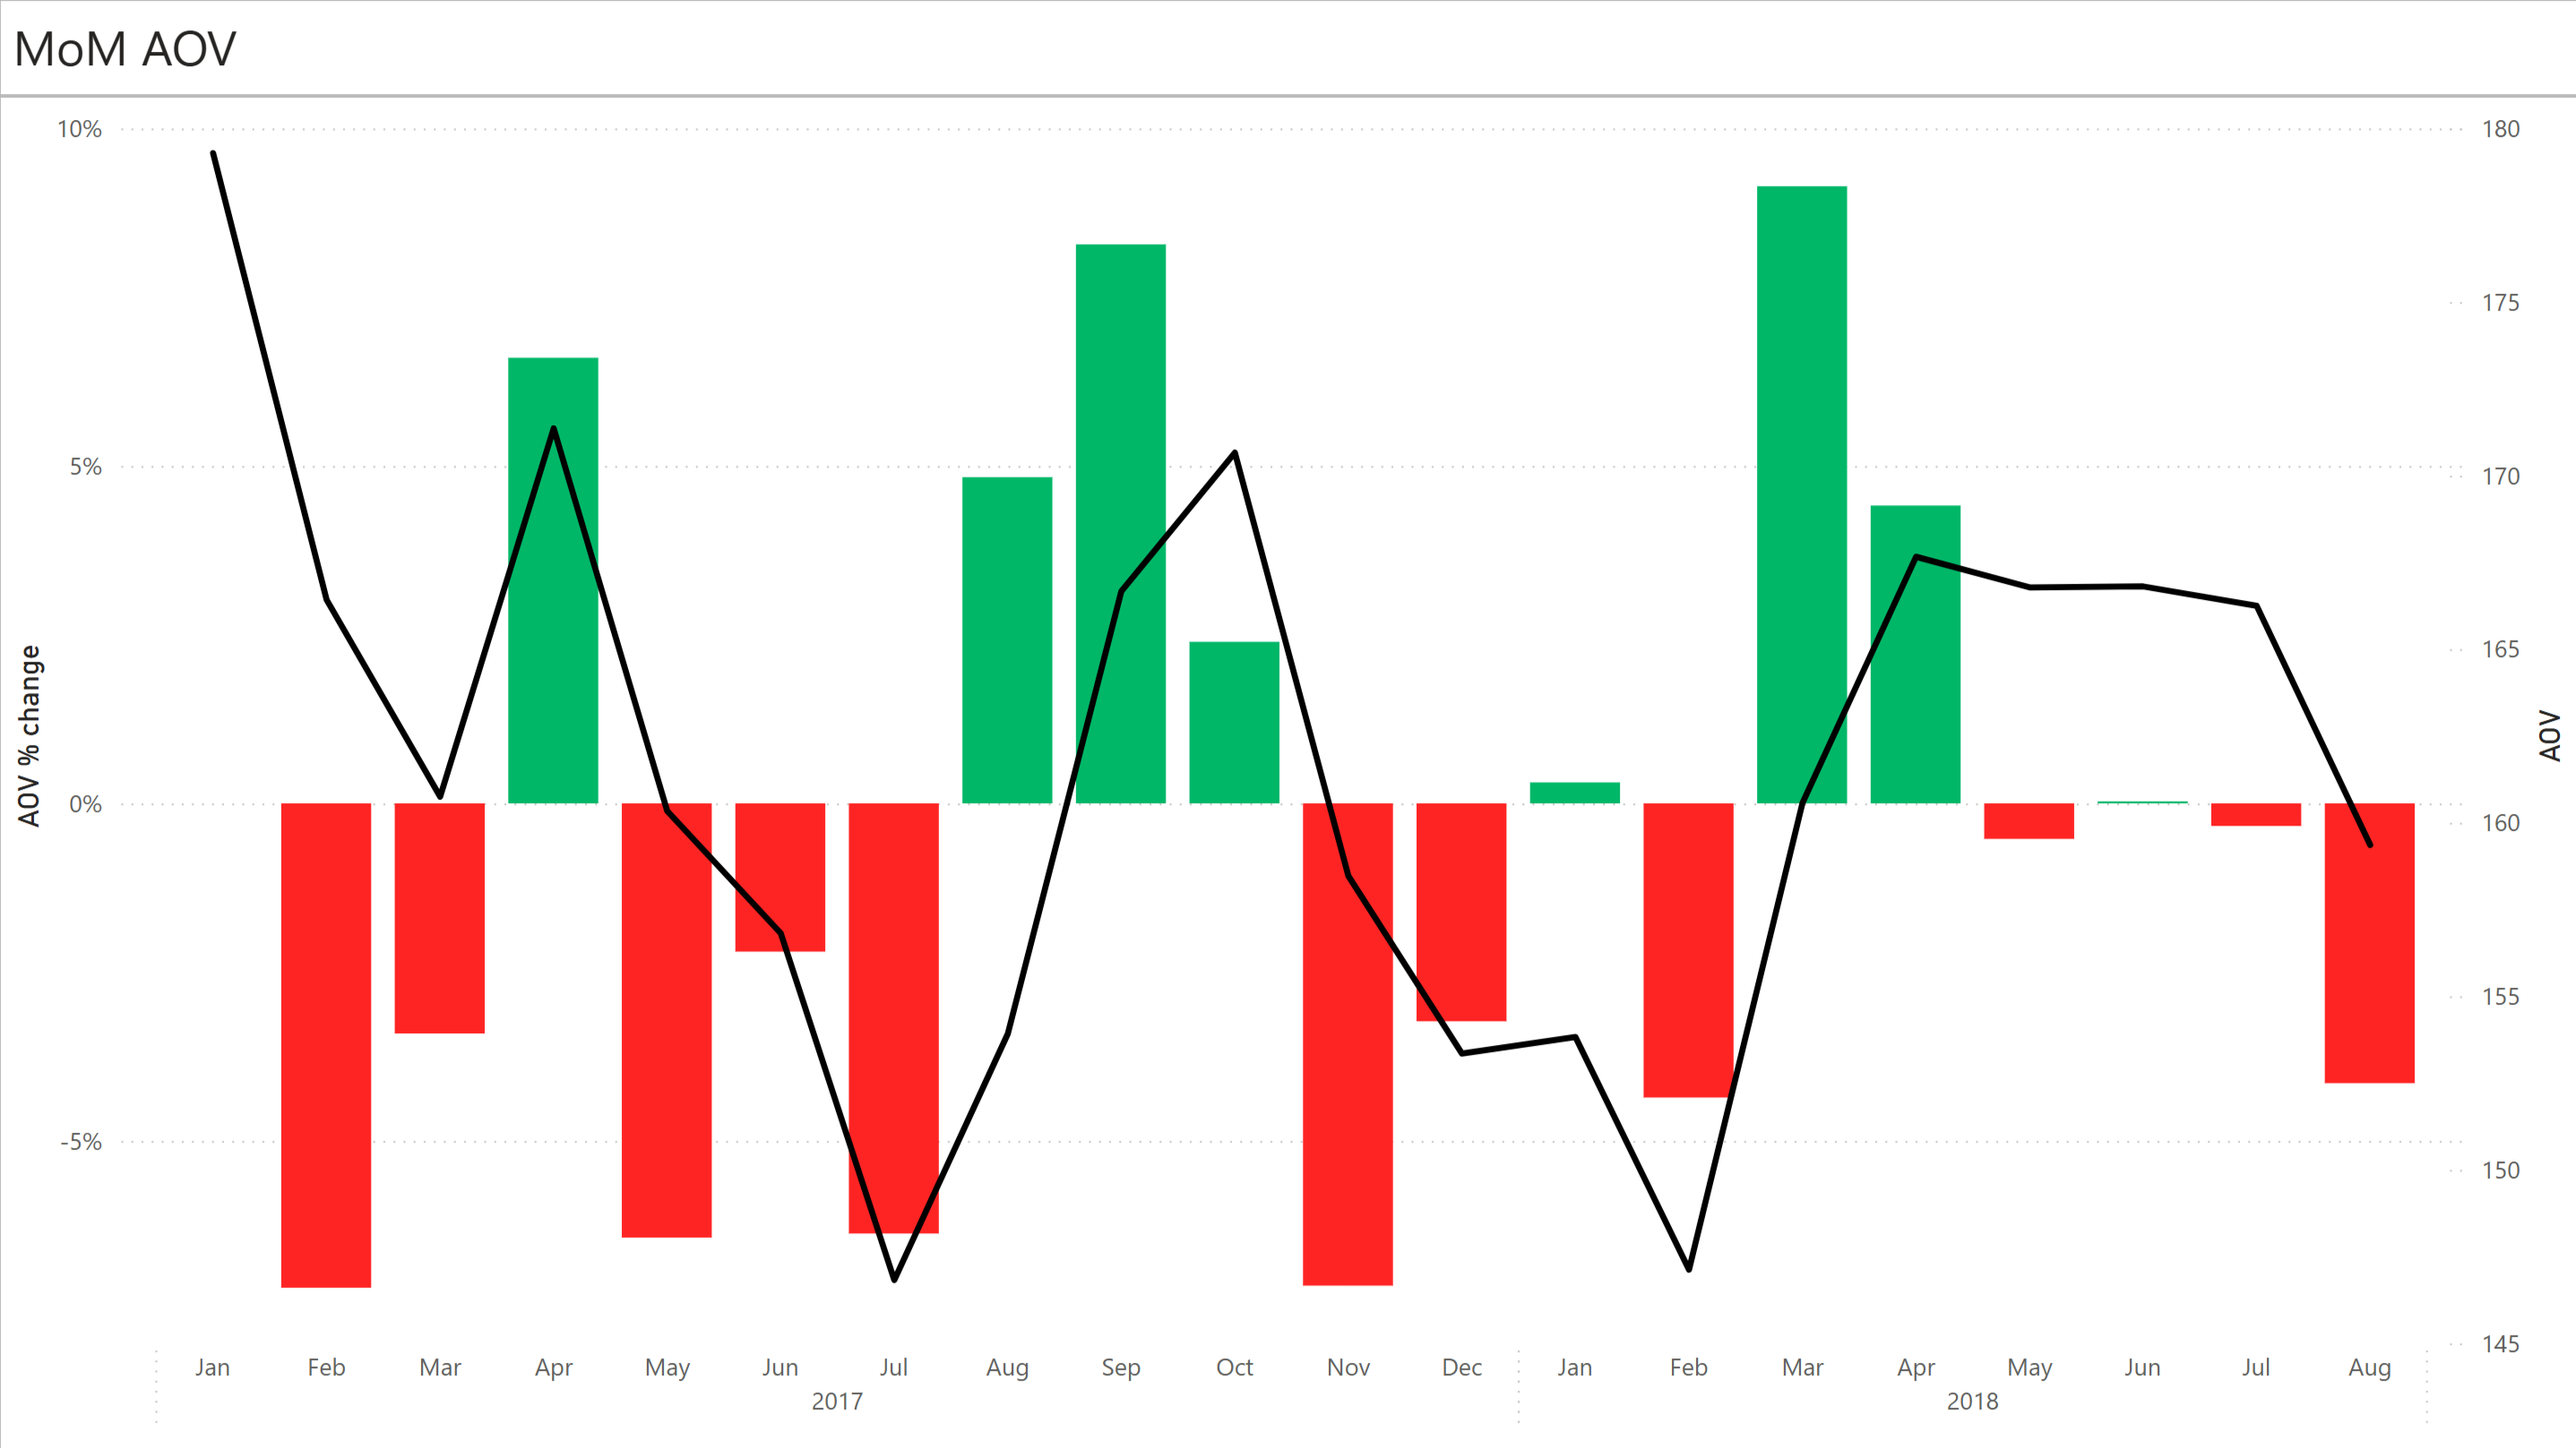
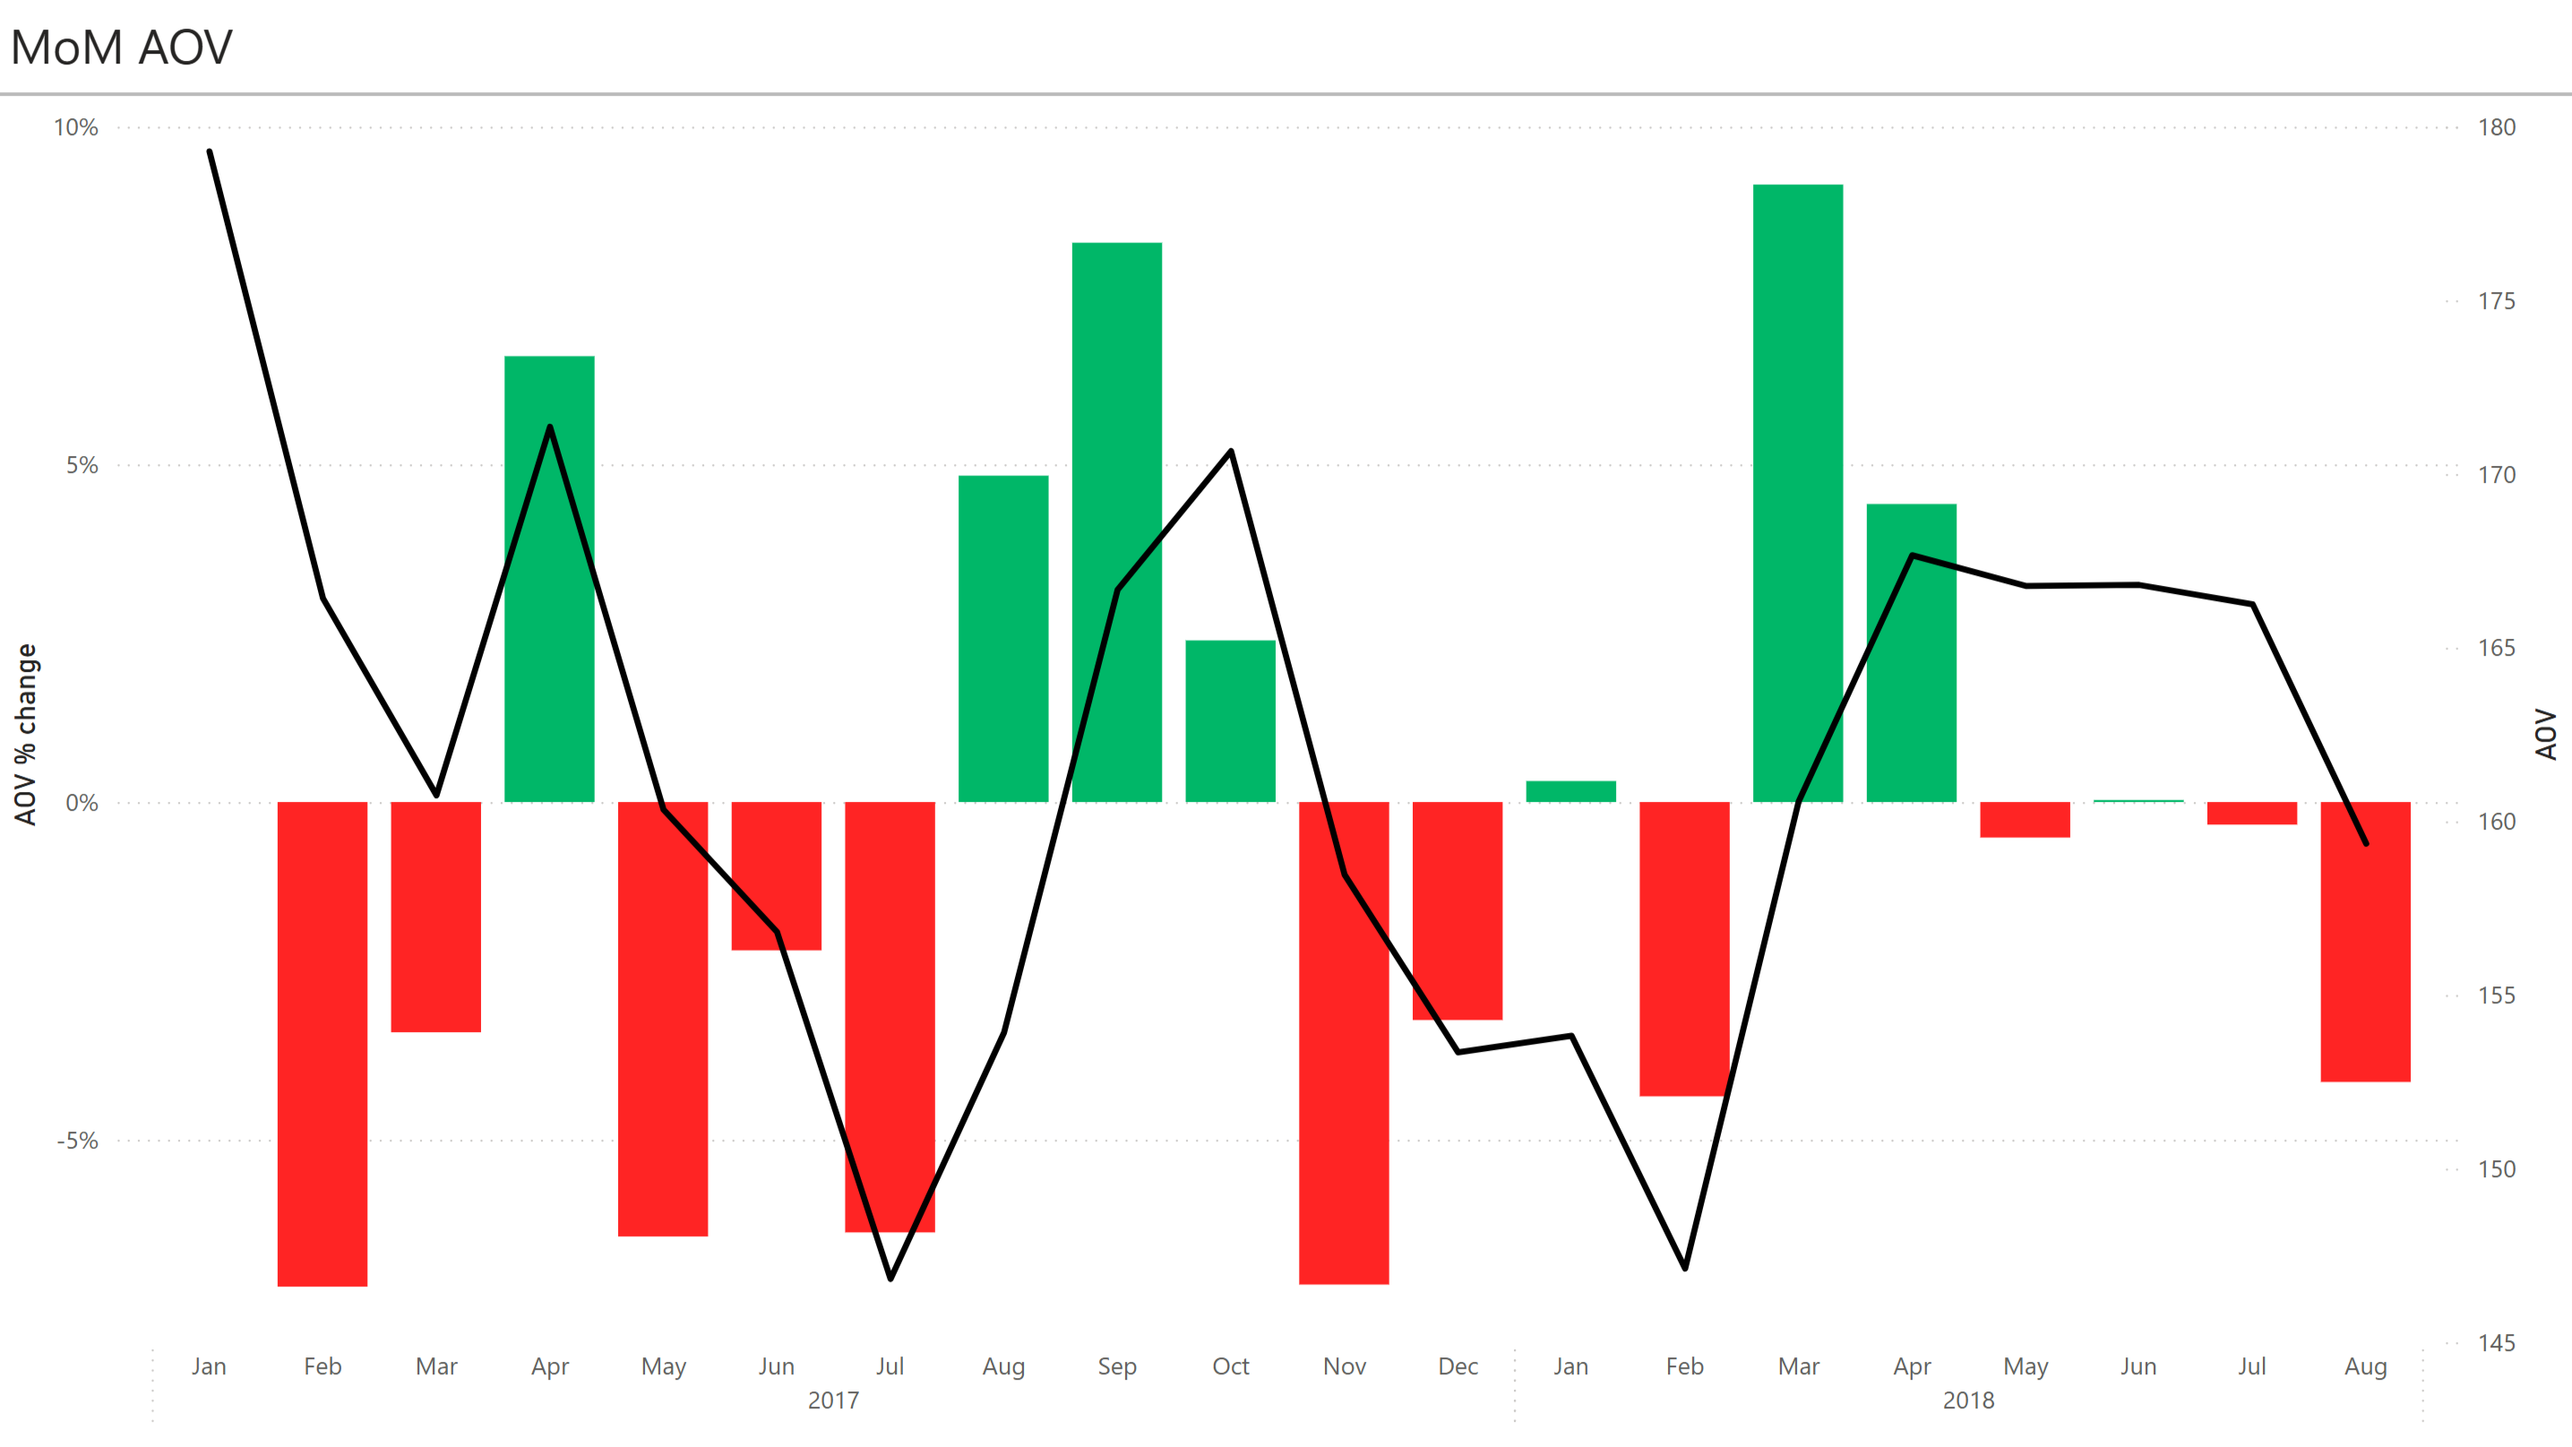
olistbr: spag

diff --git a/static/olistbr/README.md b/static/olistbr/README.md
@@ -70,9 +70,21 @@ The MTD AOV (for 2018-08) is -4.14%.
 | 2018        | 7            | 6125        | R\$ 1.018.432,00 | R\$ 166,27 | -0.32%       |
 | 2018        | 8            | 5823        | R\$ 928.091,20   | R\$ 159,38 | -4.14%       |
 
+[View query](queries/analysis/report/sales/sales.sql)
+
 </details>
 
-#### What affects AOV?
+#### What increases AOV?
+
+- Any increase in total product revenue:
+  - the propensity the `order_status` has at being a value that classifies the order as a realised sale (`approved`, `delivered`, ...)
+  - the propensity the `price` has of being listed
+- Any increase in total freight revenue.
+- Any decrease in total order count.
+
+<details>
+
+<summary>View proof</summary>
 
 In any given time frame (say a month):
 
@@ -115,13 +127,7 @@ A sale is realised whenever the `order_status` of an order transaction is any of
 A sale is measurable whenever the product `price` is listed.
 It is given that whenever `price` exists, `freight_value` also exists.
 
-From the AOV formula above, factors that increase AOV would be:
-
-- Any increase in total product revenue:
-  - the propensity the `order_status` has at being a value that classifies the order as a realised sale (`approved`, `delivered`, ...)
-  - the propensity the `price` has of being listed
-- Any increase in total freight revenue.
-- Any decrease in total order count.
+</details>
 
 ### Future orders
 
@@ -150,7 +156,7 @@ a reasonable baseline estimate of a sale would be ~98.8%.
 
 </details>
 
-#### Why did AOV decrease this month?
+<!-- #### Why did AOV decrease this month? -->
 
 ### Revenue by product category and business segment
 
@@ -198,7 +204,7 @@ Revenue by business segment (top 10 GMV)
 
 ### Product weight and freight cost correlation
 
-Chose significant if `n` > average(`n`)
+<!-- Chose significant if `n` > average(`n`) -->
 
 <details>
 
@@ -230,8 +236,8 @@ Chose significant if `n` > average(`n`)
 
 </details>
 
-### Average delivery time by customer state
+<!-- ### Average delivery time by customer state
 
-### Seller concentration through time
+### Seller concentration through time -->
 
 ---

diff --git a/static/olistbr/PREAMBLE.md b/static/olistbr/PREAMBLE.md
@@ -114,11 +114,11 @@ The **revenue** is interpreted to be the listed price of a realised sale in the 
 
 **N.B.**:
 
-- In this particular dataset, `freight_value` always exists with `price`.
-  I.e. if we have `price`, we also have `freight_value`.
-- Any numerical aggregations on realised and price-measurable sales is well-defined since `price` always exists with `freight_value`.
+- In this particular dataset, `freight_value` always exists with `price`,
+  i.e. if we have `price`, we also have `freight_value`.
+- Any numerical aggregations on realised and price-measurable sales is well-defined since `freight_value` always exists with `price`.
 
-### KPIS
+### KPIs
 
 From the tables:
 
